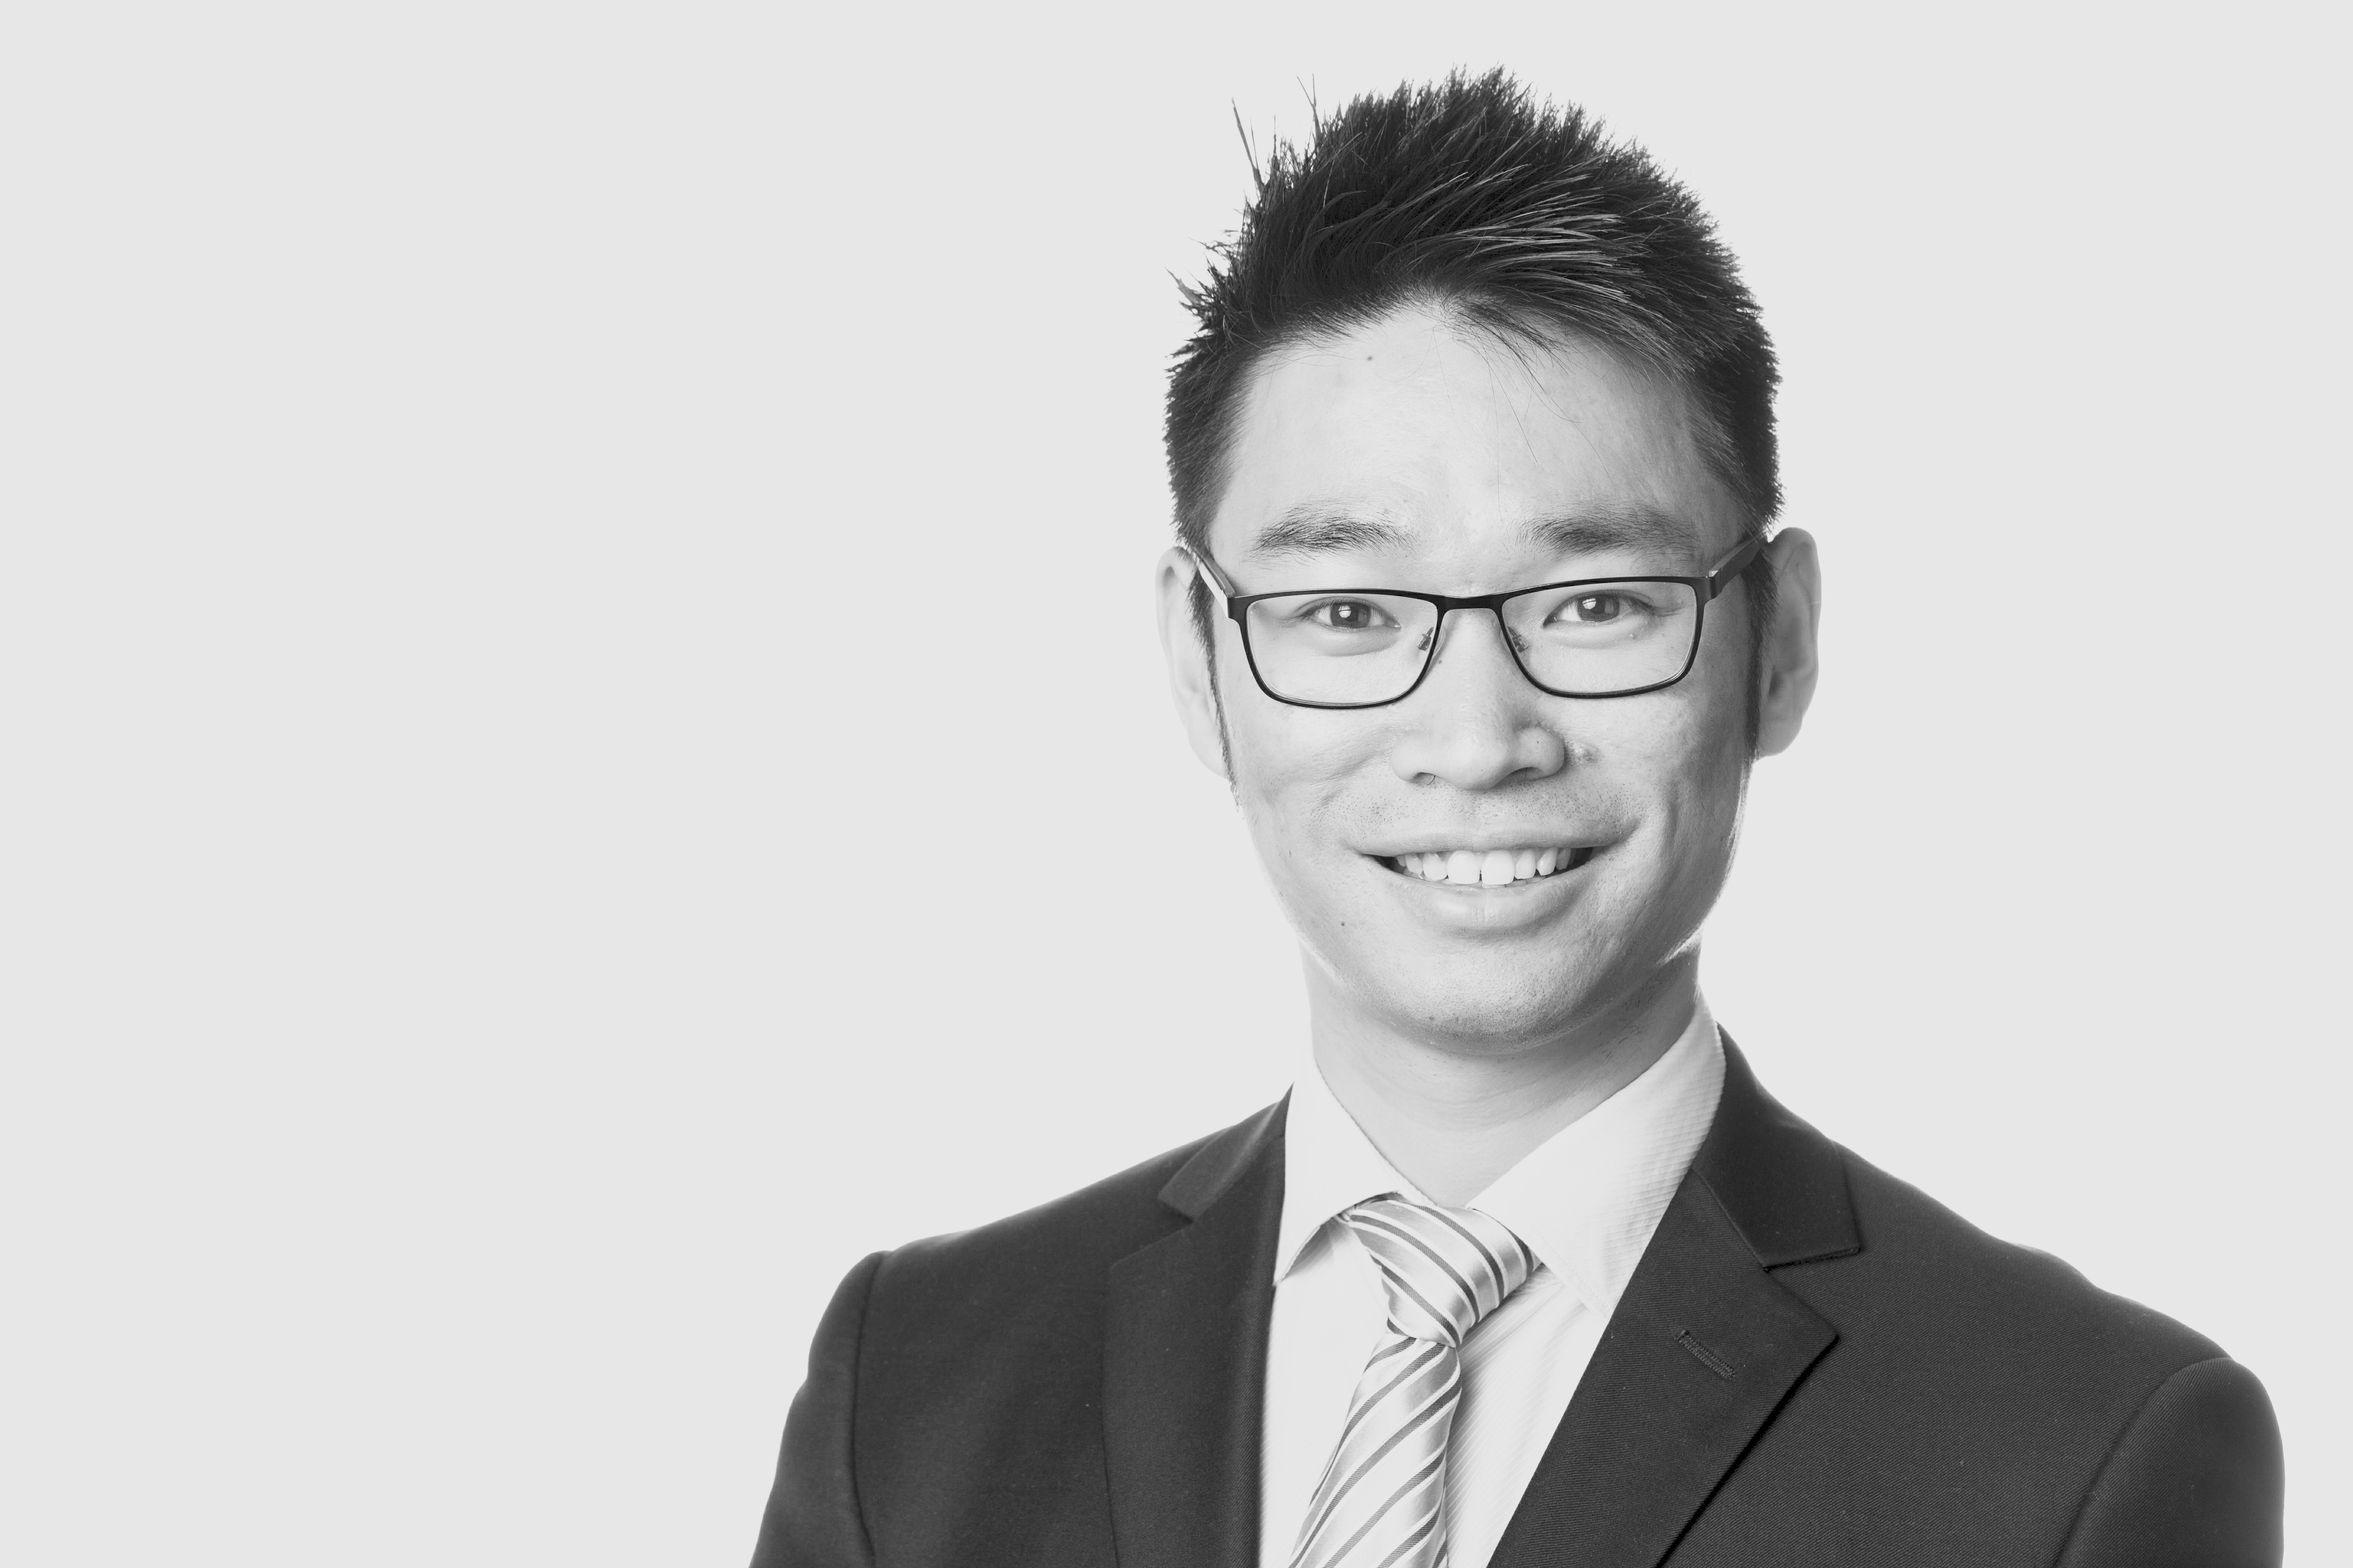
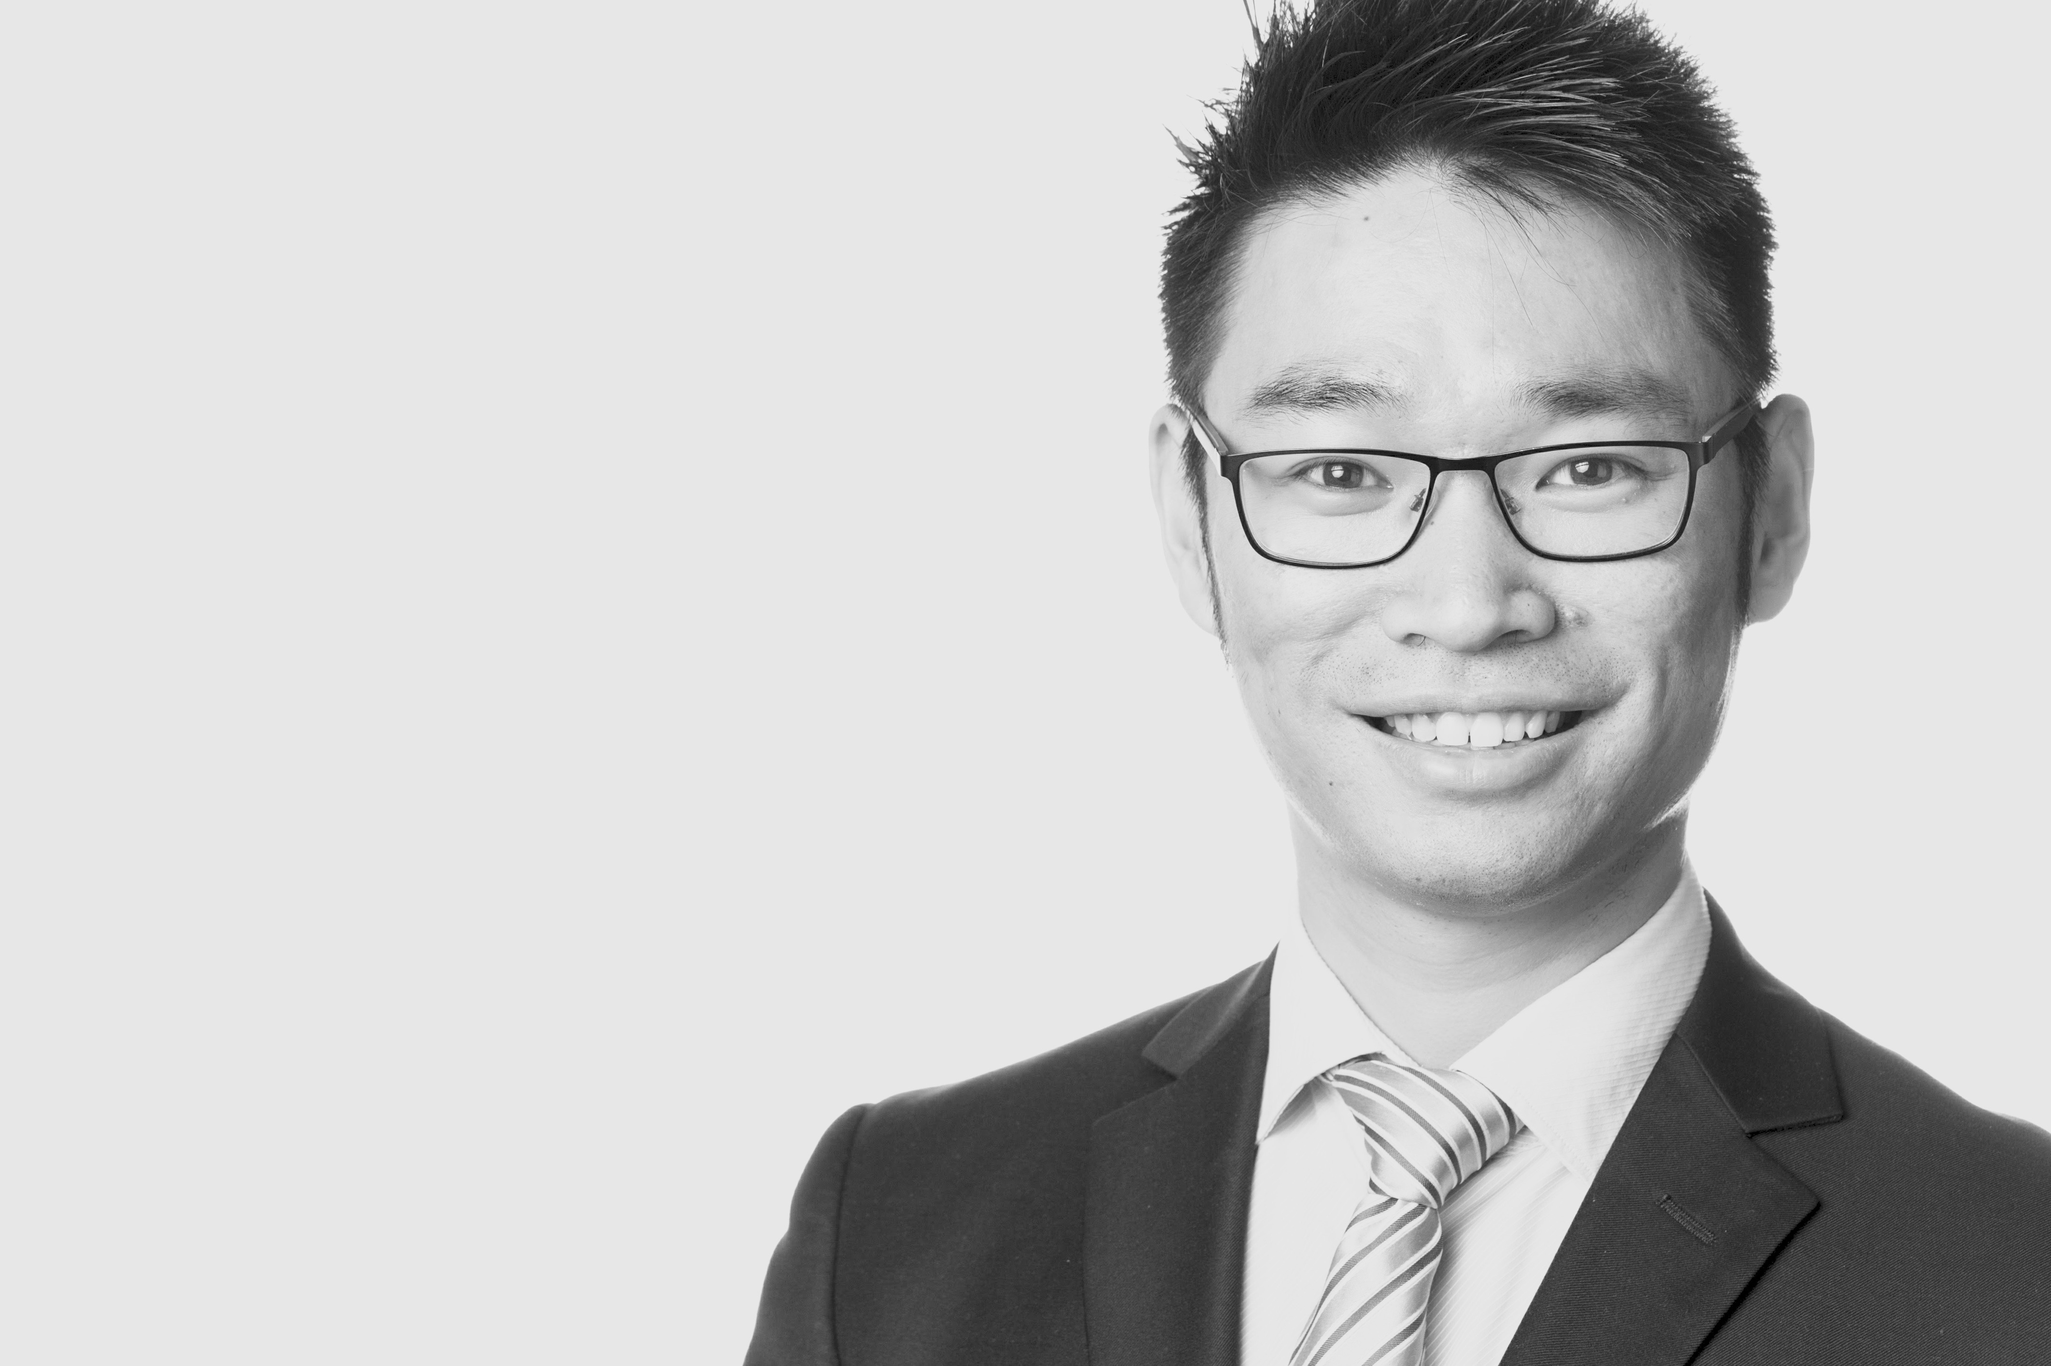
Redeploy page after updating landing photo

Changed region(s): [[0.3115, 0.0, 1.0, 1.0]]

diff --git a/mypage/src/app/greeting/greeting.component.scss b/mypage/src/app/greeting/greeting.component.scss
@@ -3,7 +3,7 @@
     height:100vh;
     padding:0px;
     background:  url("../../assets/images/cover.jpeg");
-    background-size:auto 100vh;
+    background-size:cover;
 
     @media (orientation: portrait) {
 max-height:100vh;
